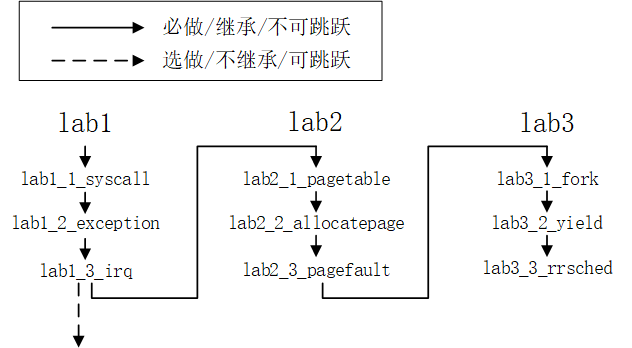
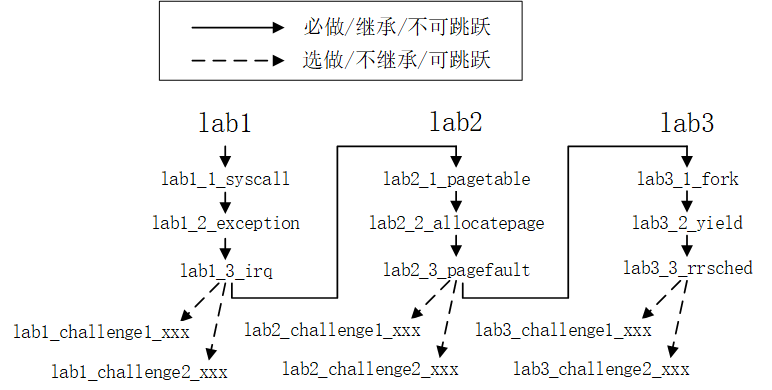
d

diff --git a/chapter2_installation.md b/chapter2_installation.md
@@ -275,9 +275,44 @@ System is shutting down with exit code -1.
 
 ## 2.3 PKE实验的组成
 
+对于《操作系统原理》课堂来说，PKE实验由3组基础实验以及基础试验后的挑战实验组成（见图1.2）：
+
+- **对于基础实验而言**，第一组基础实验重点涉及系统调用、异常和外部中断的知识；第二组基础实验重点涉及主存管理方面的知识；第三组实验重点涉及进程管理方面的知识。基础实验部分实验指导文档较为详细，学生（读者）需要填写的代码量很小，可以看作是“阅读理解+填空”题，涉及的知识也非常基础。
+- **对于挑战实验而言**，每一组实验的挑战实验都可以理解为在该组实验上的挑战性内容，只给出题目（应用程序）和预期的效果（需要做到的目标）。这一部分实验指导文档只给出大的方向，需要学生（读者）查阅和理解较多课外内容，为实现预期的效果需要填写的代码量也较大，可以看作是“作文题”。
+
+如图1.2所示，**基础实验部分存在继承性**，即学生（读者）需要按照实线箭头的顺序依次完成实验，是不可跳跃的！这是因为PKE的实验设计，后一个实验依赖前一个实验的答案，在开始后一个实验前需要先将之前的答案继承下来（通过git commit/git merge命令）。
+
+**而挑战部分的实验只依赖于每组实验的最后一个实验**，例如，如果学生（读者）完成了实验1的3个基础试验后，就可以开始做实验1的挑战实验了，不需要等到完成所有基础实验再开始。
+
 
 
 <img src="pictures/experiment_organization.png" alt="experiment_organization" style="zoom:100%;" />
+
+图1.2 PKE实验的组织结构
+
+**PKE实验即可用于自学目的，也可以用于教学目的**。对于自学的读者，可以完全按照[PKE文档](https://gitee.com/hustos/pke-doc)，以及在gitee的代码仓库中所获得的代码进行；出于教学目的，所有的PKE实验，我们都在[头歌平台](https://www.educoder.net/)进行了部署，实验结果的检测全部在头歌平台上进行，实验完成后头歌平台会生成实验情况的简报。教师可以根据简报，对学生的实验完成情况给出具体的分数。我们的设置是：对于基础实验，完成后头歌平台会给出20points，对于挑战实验，若完成头歌平台会给出30points。
+
+
+
+考虑到《操作系统原理》课堂的实验安排，很多学校（例如华中科技大学计算机学院）是将实验分成了两部分：课内实验和课程设计。如果采纳PKE实验，根据学生的水平，我们给出两个方案：
+
+**方案一（学生其他课程负担较重，或不希望实验太难的情况）：**
+
+- 课内实验包括所有的基础实验；
+- 课程设计学生可在每组实验中，选择（学生自选）一个挑战实验。
+
+这种情况，对于课内实验我们的建议是：20points=30分，每组实验总分90分；3组实验取平均分（总分仍然是90）后，总分加上实验报告的10分，等于课内实验的总分数；对于课程设计我们的建议是：30points=30分，3个挑战实验总分求和（总分90），最后加上实验报告的10分，等于课程设计的总分数。
+
+
+
+**方案二（学生平均能力较强，且希望实验分数有区分度的情况）：**
+
+- 课内实验包括所有的基础实验，外加基础实验的1个（学生自选）挑战实验；
+- 课程设计学生可在每组实验中，选择之前未完成的一个挑战实验。
+
+这种情况，对于课内实验我们的建议是：20points=20分，外加一个挑战实验，每组实验总分是3*20+30=90分；3组实验取平均分（总分仍然是90）后，总分加上实验报告的10分，等于课内实验的总分数；对于课程设计我们的建议是：30points=30分，3个挑战实验总分求和（总分90），最后加上实验报告的10分，等于课程设计的总分数。
+
+
 
 
 
